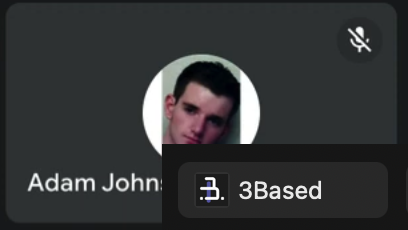
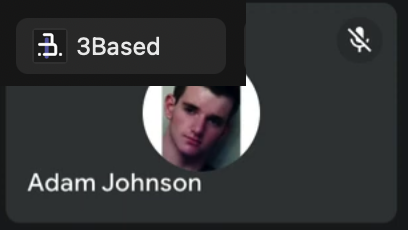
feat: better merge

diff --git a/src/main.rs b/src/main.rs
@@ -1,6 +1,6 @@
 use std::io;
 
-use image::{imageops, GenericImageView};
+use image::imageops;
 
 use nft_gen::cli::Args;
 
@@ -10,10 +10,7 @@ fn main() -> Result<(), io::Error> {
     let mut image1 = image::open("example/image1.png").unwrap();
     let image2 = image::open("example/image2.png").unwrap();
 
-    let (x_1, y_1) = image1.dimensions();
-    let (x_2, y_2) = image2.dimensions();
-
-    imageops::overlay(&mut image1, &image2, x_1 - x_2, y_1 - y_2);
+    imageops::overlay(&mut image1, &image2, 0, 0);
 
     image1.save("example/output.png").unwrap();
 
